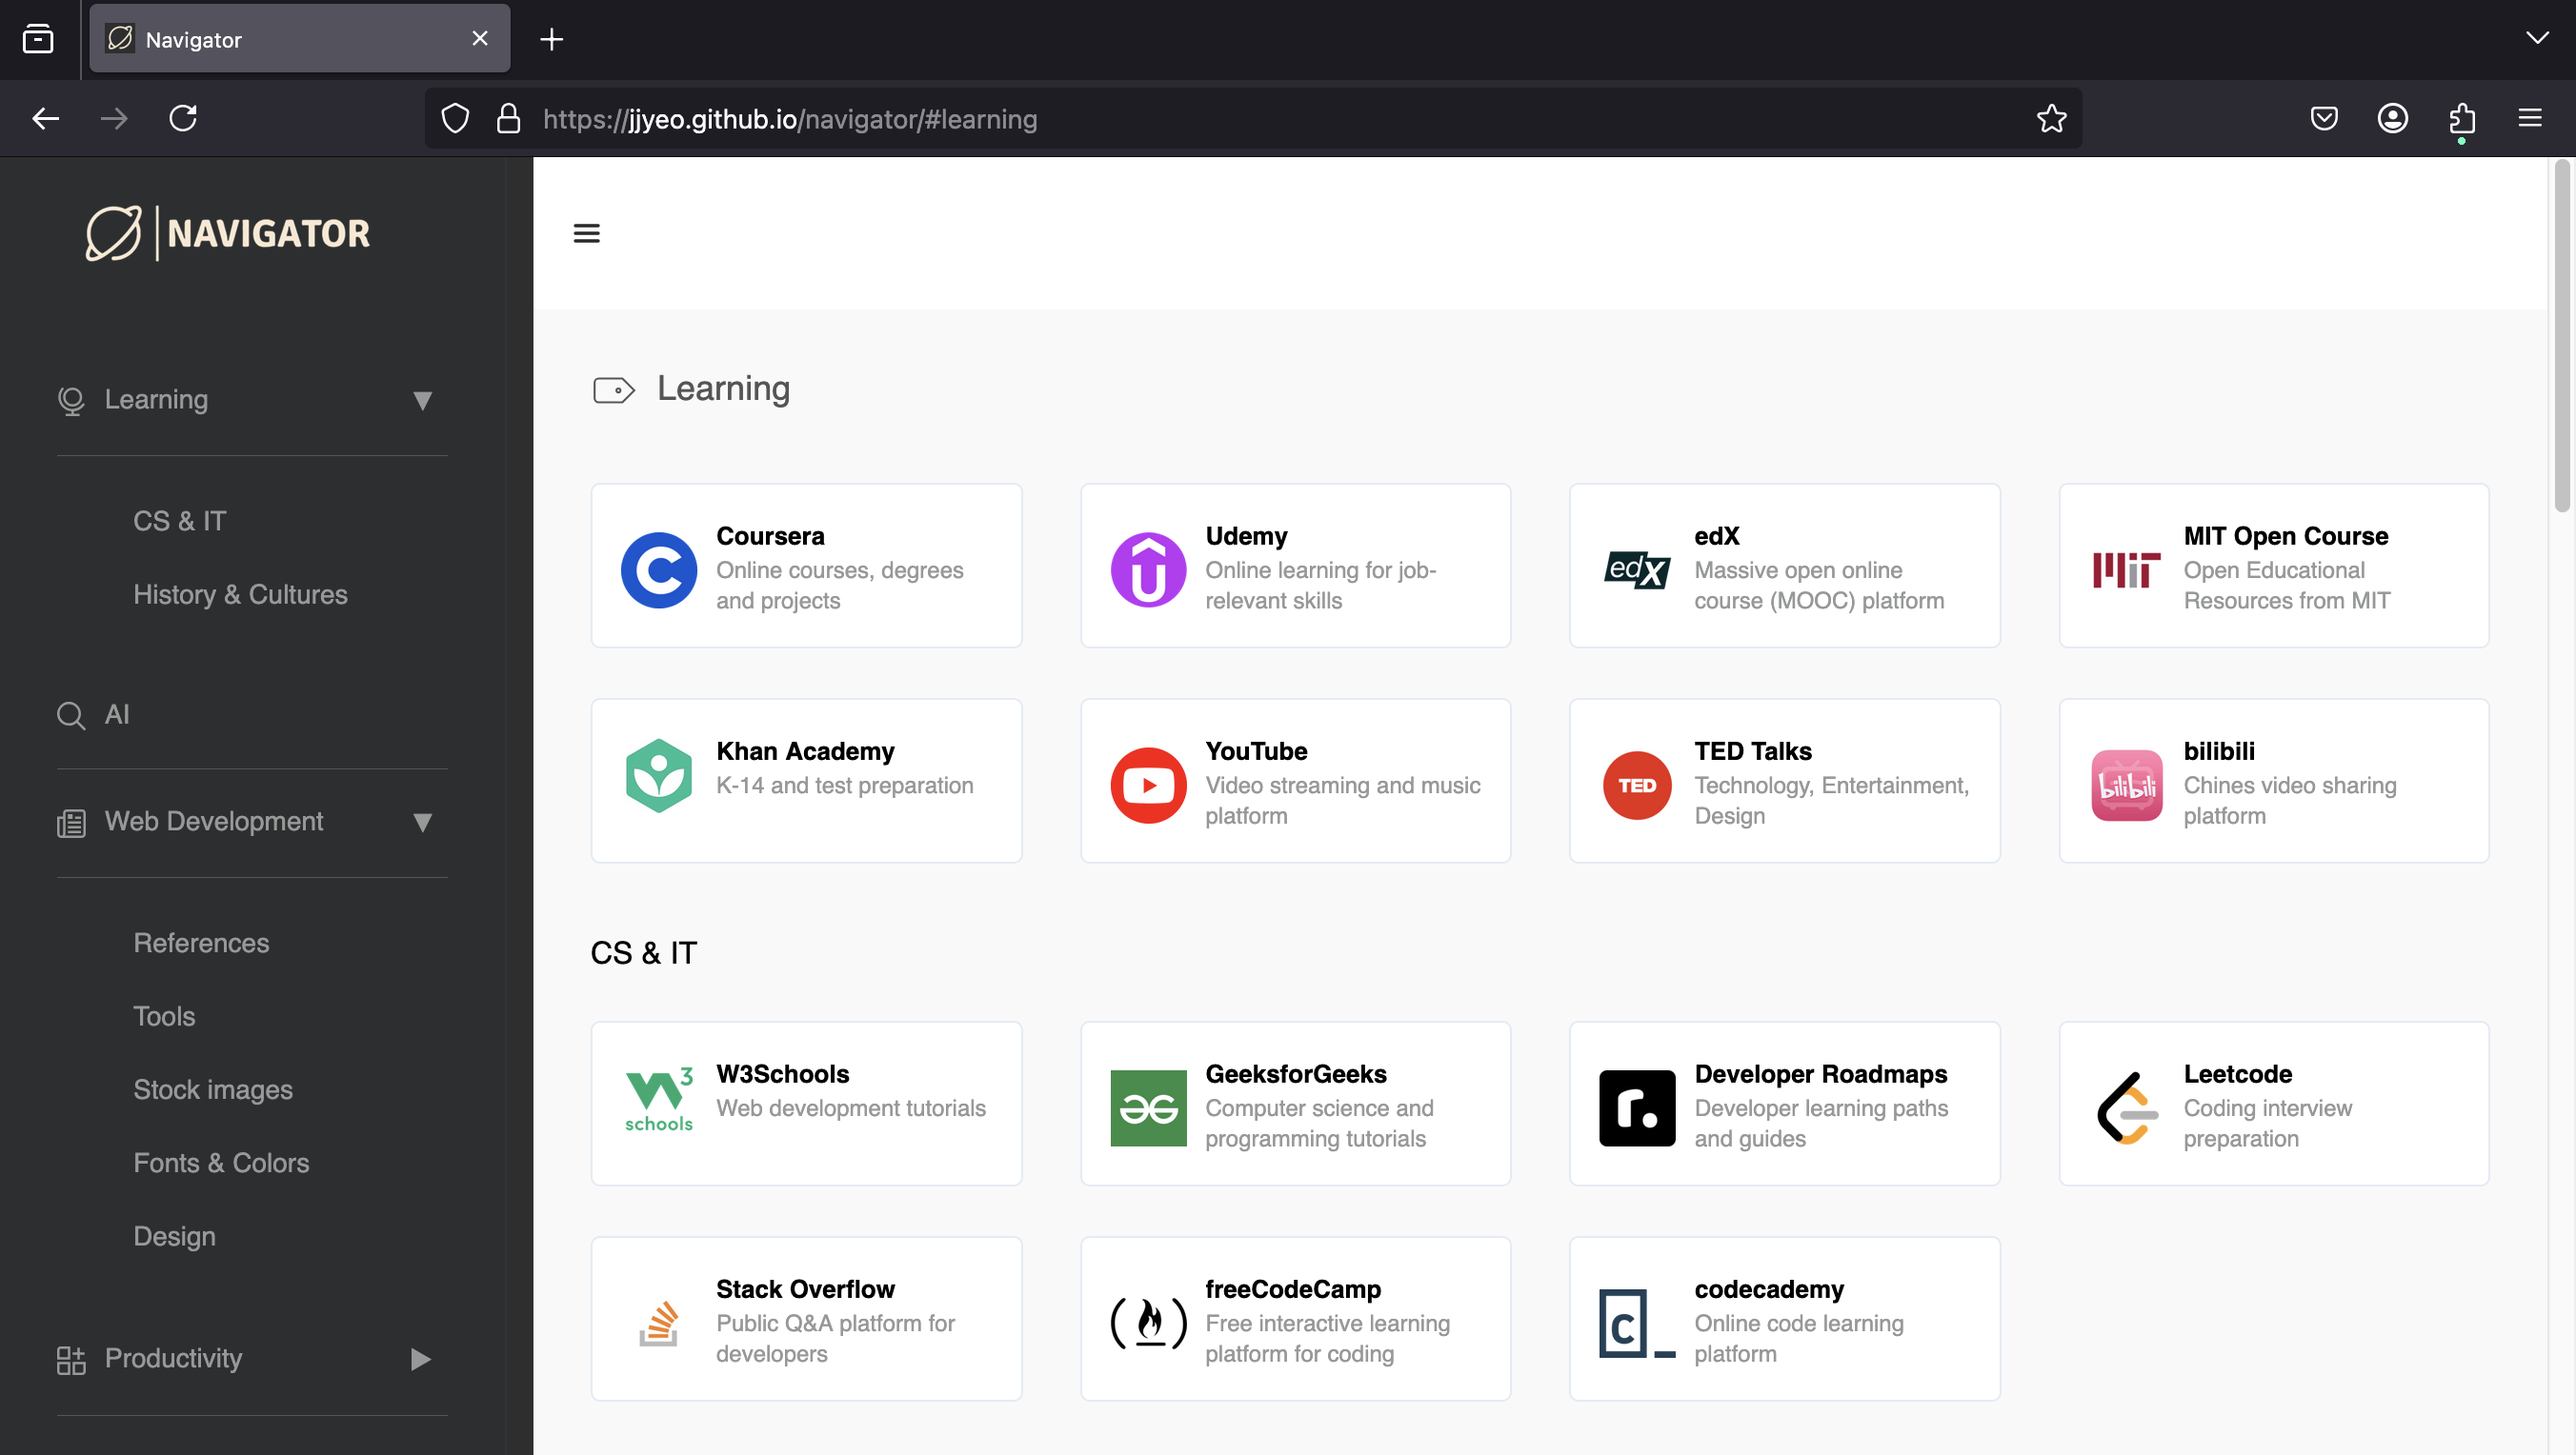
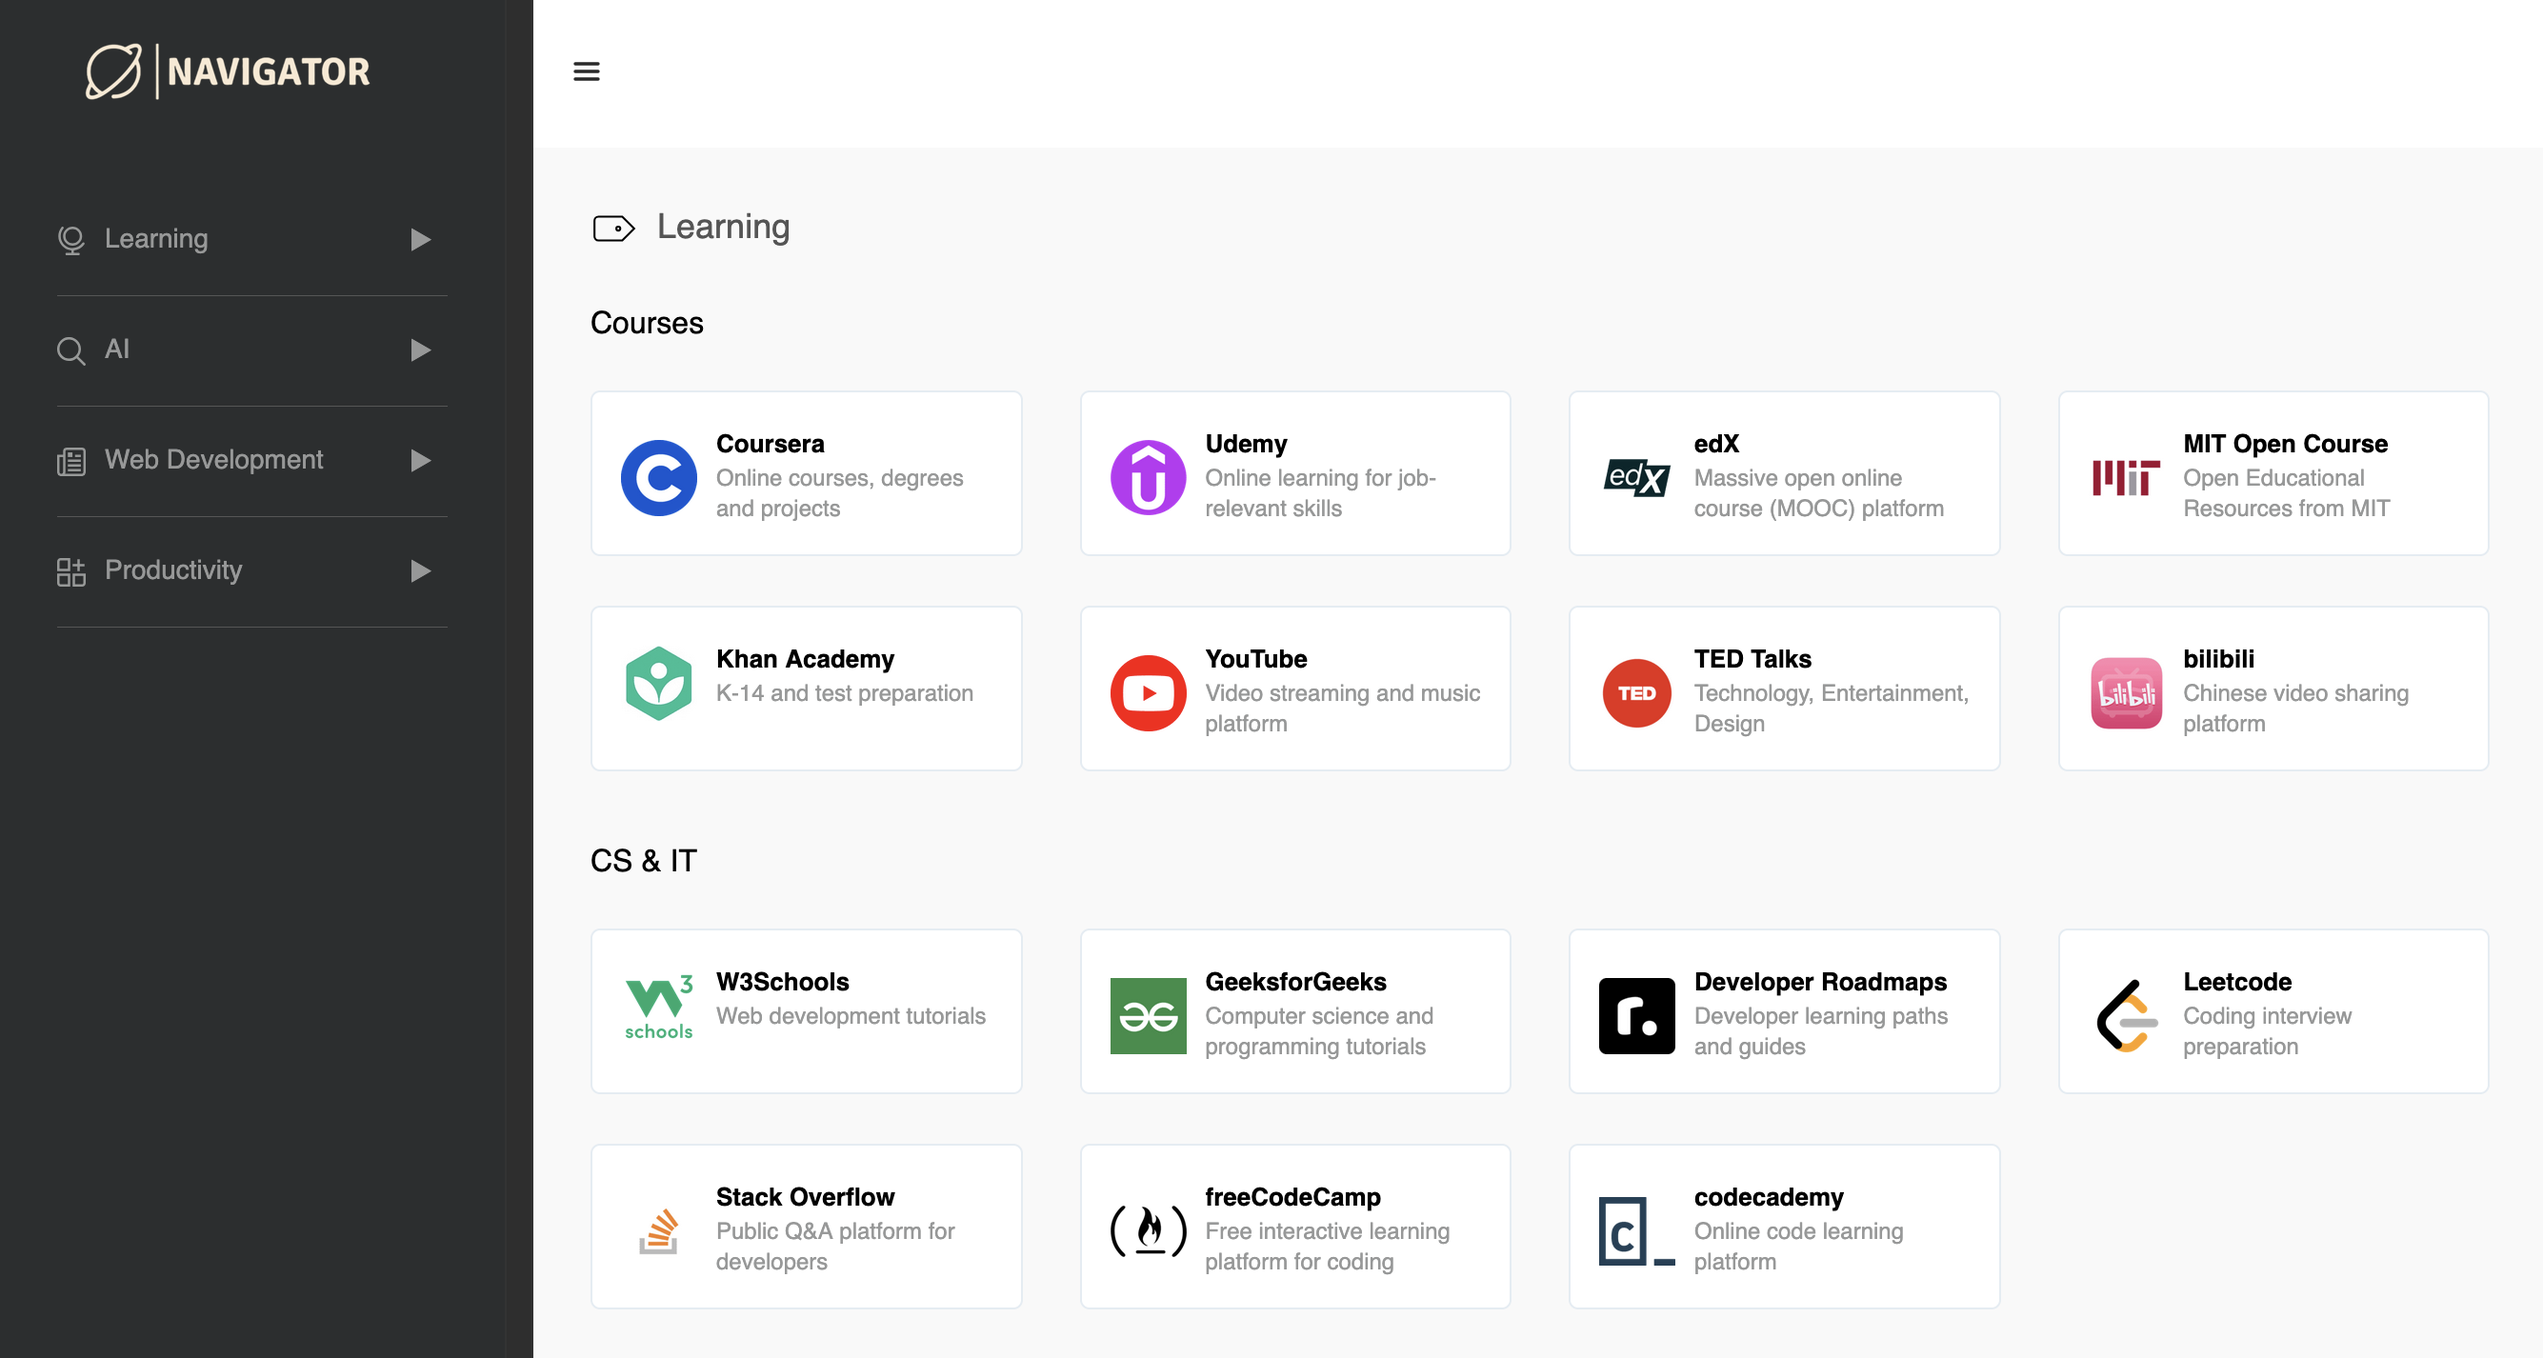
fix: responsive display issue

diff --git a/assets/scripts/main.js b/assets/scripts/main.js
@@ -4,20 +4,20 @@ function toggleMenu() {
     const body = document.body;
     const isMobile = window.innerWidth <= 770;
 
+    // Hide the menu on small screens
     if (isMobile) {
-        // Hide the menu
         document.querySelector("#menu-flex")?.classList.toggle("hide");
-    } else {
-        // Collapse all categories
-        document.querySelectorAll(".container").forEach(container => {
-            const expandIcon = container.querySelector(".expand-icon");
-            const subcategory = container.querySelector(".subcategory");
-            if (expandIcon && subcategory) {
-                expandIcon.textContent = "▶";
-                subcategory.classList.add("hide");
-            }
-        });
     }
+
+    // Collapse all categories
+    document.querySelectorAll(".container").forEach(container => {
+        const expandIcon = container.querySelector(".expand-icon");
+        const subcategory = container.querySelector(".subcategory");
+        if (expandIcon && subcategory) {
+            expandIcon.textContent = "▶";
+            subcategory.classList.add("hide");
+        }
+    });
 
     // Adjust the menu and body
     menu.classList.toggle("shrink");
@@ -29,7 +29,7 @@ function toggleMenu() {
 function toggleMenuCategory() {
     const menu = document.querySelector("#menu");
     const isMenuExpanded = !menu.classList.contains("shrink");
-    const isDesktop = window.innerWidth > 990;
+    const isDesktop = window.innerWidth > 770;
     const isMobile = window.innerWidth <= 770;
 
     if (isMenuExpanded && (isDesktop || isMobile)) {
@@ -195,6 +195,25 @@ function displayContent(data) {
 }
 
 
+// Move the logo to the header or menu based on screen size
+function moveLogo() {
+    const header = document.querySelector("#header");
+    const menuFlex = document.querySelector("#menu-flex");
+    
+    if (window.innerWidth <= 770) {
+        const logoInMenu = document.querySelector('#menu-flex > a');
+        if (logoInMenu && !header.contains(logoInMenu)) {
+            header.insertBefore(logoInMenu, header.firstChild);
+        }
+    } else {
+        const logoInHeader = document.querySelector('#header > a');
+        if (logoInHeader && !menuFlex.contains(logoInHeader)) {
+            menuFlex.insertBefore(logoInHeader, menuFlex.firstChild);
+        }
+    }
+}
+
+
 // Add event listeners
 function attachEventListeners() {
     document.querySelectorAll(".collapsible").forEach(collapsible => {
@@ -229,3 +248,5 @@ function initApp() {
 }
 
 initApp();
+window.addEventListener('resize', moveLogo);
+window.addEventListener('DOMContentLoaded', moveLogo);

diff --git a/assets/styles/menu.css b/assets/styles/menu.css
@@ -120,46 +120,15 @@
 }
 
 /* medium screen */
-@media (min-width: 771px) and (max-width: 990px) {
+@media (max-width: 990px) {
     #menu {
-        width: 80px;
+        width: 250px;
         overflow-x: hidden;
         overflow-y: scroll;
     }
 
     #menu-flex {
-        margin: auto 0;
-        align-items: center;
-    }
-
-    #logo-img {
-        width: 40px;
-        background-size: contain;
-        background-position: center;
-        background-image: url("../images/navigator/logo-small-2.png");
-        background-repeat: no-repeat;
-    }
-
-    .container {
-        width: 100%;
-        position: relative;
-    }
-
-    .category {
-        border: none;
-        width: 100%;
-        justify-content: center;
-    }
-
-    .category-icon {
-        width: 16px;
-        padding: 0;
-    }
-
-    .category-name,
-    .expand-icon,
-    .subcategory {
-        display: none;
+        margin: auto 25px;
     }
 }
 
@@ -168,8 +137,9 @@
 @media (max-width: 770px) {
     #menu {
         width: 100%;
+        height: 35%;
         overflow-x: hidden;
-        position: static;
+        position: fixed;
         transition: height 0.25s;
     }
 
@@ -180,9 +150,8 @@
     }
 
     #menu-flex {
-        width: 80%;
         justify-content: left;
-        margin: 0 30px;
+        margin: 80px 30px 30px 30px;
     }
 
     #logo-img,
@@ -195,8 +164,6 @@
         background-image: url("../images/navigator/logo-wide-2.png");
         background-repeat: no-repeat;
         margin: 0;
-        z-index: 300;
-        width: 178px;
     }
 
     .container {

diff --git a/assets/styles/general.css b/assets/styles/general.css
@@ -34,13 +34,19 @@ a {
 }
 
 /* large screen */
+@media (max-width: 1200px) {
+    #info-grid {
+        grid-template-columns: repeat(3, 1fr);
+    }
+}
+
 @media (max-width: 990px) {
     body {
-        padding-left: 80px;
+        padding-left: 250px;
     }
 
     #info-grid {
-        grid-template-columns: repeat(3, 1fr);
+        grid-template-columns: repeat(2, 1fr);
     }
 }
 
@@ -50,6 +56,10 @@ a {
     body.expand {
         padding-left: 0;
         padding-top: 80px;
+    }
+
+    #info-grid {
+        grid-template-columns: repeat(3, 1fr);
     }
 }
 

diff --git a/index.html b/index.html
@@ -5,10 +5,10 @@
     <meta name="viewport" content="width=device-width, initial-scale=1.0">
     <title>Navigator</title>
     <link rel="icon" type="image/x-icon" href="assets/images/navigator/favicon.ico">
+    <link rel="stylesheet" href="assets/styles/general.css">
     <link rel="stylesheet" href="assets/styles/header.css">
     <link rel="stylesheet" href="assets/styles/menu.css">
     <link rel="stylesheet" href="assets/styles/card.css">
-    <link rel="stylesheet" href="assets/styles/general.css">
 </head>
 <body>
     <div id="menu">

diff --git a/assets/styles/header.css b/assets/styles/header.css
@@ -11,17 +11,10 @@
     cursor: pointer;
 }
 
-/* medium screen */
-@media (min-width: 771px) and (max-width: 990px) {
-    #menu-icon {
-        display: none;
-    }
-}
-
 /* small screen */
 @media (max-width: 770px) {
     #header {
-        position: absolute;
+        position: fixed;
         left: 0;
         top: 0;
         width: 100%;

diff --git a/assets/styles/card.css b/assets/styles/card.css
@@ -7,8 +7,6 @@
 .tag-flex img {
     width: 25px;
     margin-right: 10px;
-    transform: scaleX(-1);
-    filter: invert(35%) sepia(0%) saturate(51%) hue-rotate(174deg) brightness(96%) contrast(99%);
 }
 
 .tag-flex p {
